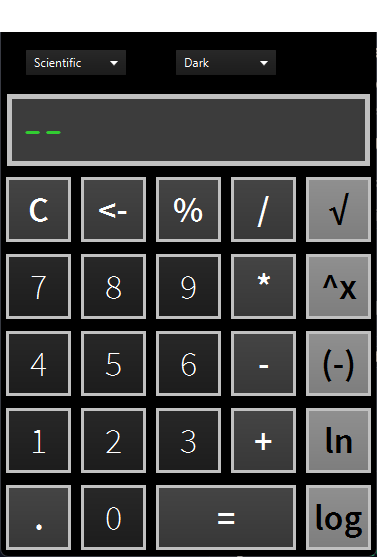
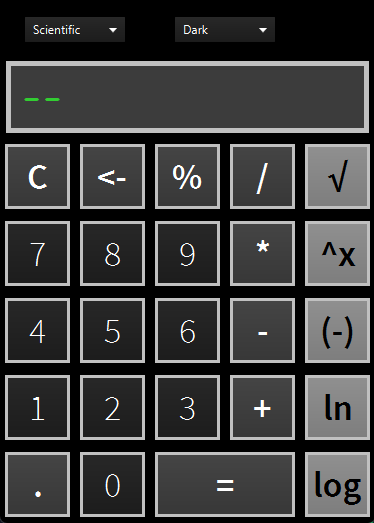
README.md update

diff --git a/README.md b/README.md
@@ -1,5 +1,11 @@
 <h1>CalculatorV2</h1>
 
+<div class="images--container" style="text-align:center">
+<img class="images" src="img/defaultModeCalc.png" alt="Default Calc Image" height="450" style="border: 10px solid black"> </img>
+<img class="images" src="img/darkModeCalc.png" alt="Dark Calc Image" height="450"> </img>
+<img class="images" src="img/lightModeCalc.png" alt="Light Calc Image" height="450"> </img>
+</div>
+
 <h2>Overview</h2>
 
 CalculatorV2 is a JavaFX-based calculator application that supports basic and scientific calculations. The project is structured to offer a clean, responsive user interface with themes and two seperate layouts.
@@ -43,4 +49,15 @@ Uses Maven for building the project.
 
 or run the generated .exe file
 
+<br>
 This project is licensed under the GNU GENERAL PUBLIC LICENSE Version 3.
+<style>
+.images--container {
+display:flex;
+gap:10px;
+}
+.images {
+border: 10px solid black;
+padding-top:-40px;
+}
+</style>
